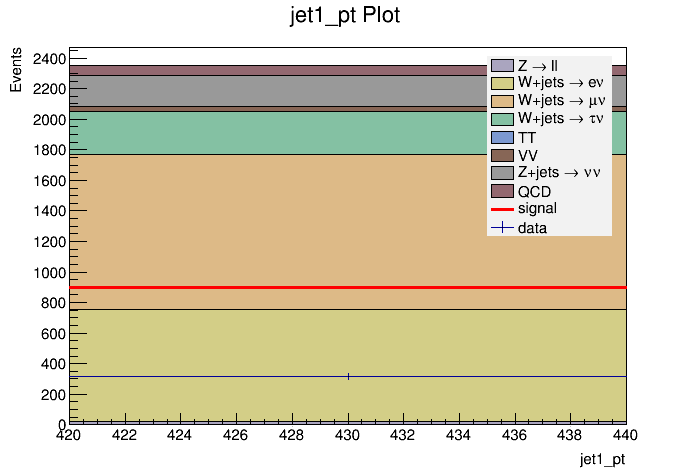
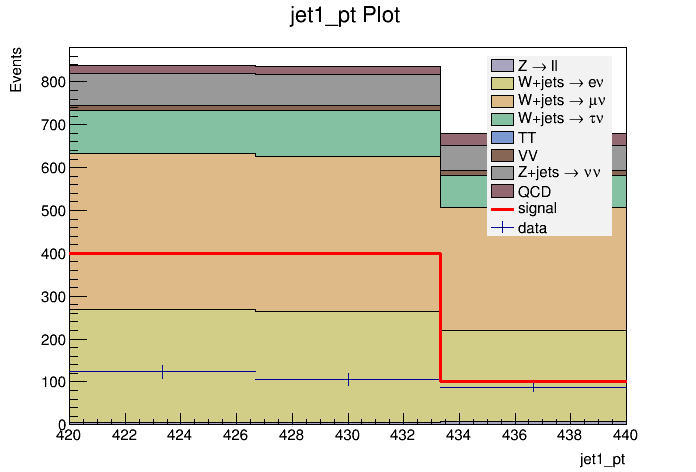
bin adjustment for cuts now works

diff --git a/include/plotting.h b/include/plotting.h
@@ -5,10 +5,11 @@
 #include <THStack.h>
 #include <TLegend.h>
 #include "data_chain.h"
-#include <typeinfo>
+//#include <typeinfo>
 #include <sstream>
 
-const int* scale_bins_for_cut(const int* bins, const char* x_minc_nocut, const char* x_maxc_nocut, const char* x_minc_cut, const char* x_maxc_cut) {
+/*const char* DataChain::scale_bins_for_cut(const char* bins, const char* x_minc_nocut, const char* x_maxc_nocut, const char* x_minc_cut, const char* x_maxc_cut) {
+  std::cout << "raw bins in scale bin funct=" << *bins << "\n";
   double x_min_nocut = atof(x_minc_nocut);
   double x_max_nocut = atof(x_maxc_nocut);
   double x_min_cut = atof(x_minc_cut);
@@ -21,6 +22,7 @@ const int* scale_bins_for_cut(const int* bins, const char* x_minc_nocut, const c
   if (nbins_int==0){
 	nbins_int=1;
   }
+
   //char scaled_bins[10];
   //sprintf(scaled_bins, "%d", nbins_int);
 std::string scaled_bins_str;
@@ -29,17 +31,25 @@ convert << nbins_int;
 scaled_bins_str = convert.str();
 const char* scaled_bins = scaled_bins_str.c_str();
 //std::cout << "*scaled_bins=" << *scaled_bins << "\n";
-std::cout << "scaled bins=" << nbins_int << "\n";
-int* bin_ptr = &nbins_int;
-return bin_ptr;//scaled_bins;
-}
 
-void draw_stacked_histoplots(std::vector<DataChain*> bg_chains, DataChain* signal_chain, DataChain* data, const char* variable_name, const char* selection, const char* signal_multiplier, const int* bins, const char* x_min, const char* x_max, const char* leg_pos, bool is_cut) {
+std::string sbs;
+std::ostringstream oss;
+oss << nbins_int;
+sbs =oss.str();
+//sbs.append(",");
+const char* scbin_ptr = sbs.c_str();
+std::cout << "scaled bins=" << sbs << "\n";
+int* bin_ptr = &nbins_int;
+return scbin_ptr;//scaled_bins;
+}*/
+
+void draw_stacked_histoplots(std::vector<DataChain*> bg_chains, DataChain* signal_chain, DataChain* data, const char* variable_name, const char* selection, const char* signal_multiplier, const char* bins, const char* x_min, const char* x_max, const char* leg_pos, bool is_cut, const char* x_minc_nocut, const char* x_maxc_nocut) {
   //const char* plot_title = build_string({variable_name, " Plot"});
   std::string title_parts(variable_name);
   title_parts.append(" Plot");
   const char* plot_title = title_parts.c_str();
-
+  //const char *scaled_bins= scale_bins_for_cut(bins, x_minc_nocut, x_maxc_nocut, x_min, x_max);
+  //std::cout << "scaled bins in draw_stacked histoplots = " << *scaled_bins<<"+"<<scaled_bins <<"+"<<&scaled_bins<<"\n";
   TCanvas* c1 = new TCanvas("c1", plot_title);
 
   TLegend* legend_bg;
@@ -59,26 +69,26 @@ void draw_stacked_histoplots(std::vector<DataChain*> bg_chains, DataChain* signa
 
   //std::cout << "setup canvas, legend and plot" << std::endl;
   for(int i = 0; i < bg_chains.size(); i++) {
-  	TH1F* single_bg_histo = bg_chains[i]->histo_for_stack(false, variable_name, selection, bins, x_min, x_max, colours[i], is_cut);
+  	TH1F* single_bg_histo = bg_chains[i]->histo_for_stack(false, variable_name, selection, bins, x_min, x_max, colours[i],is_cut, x_minc_nocut, x_maxc_nocut);
   	hs.Add(single_bg_histo);
   	legend_bg->AddEntry(single_bg_histo, bg_chains[i]->legend, "f");
-  	//std::cout << "histograms added to stack fine" << std::endl;
+  	//std::cout << "histograms number:"<<i<< " added to stack fine" << std::endl;
  	}
 
   std::string signal_sel(selection);
   signal_sel += "*";
   signal_sel.append(signal_multiplier);
 
-  TH1F* signal_histo = signal_chain->histo_for_stack(true, variable_name, signal_sel.c_str(), bins, x_min, x_max, 0, is_cut);
+  TH1F* signal_histo = signal_chain->histo_for_stack(true, variable_name, signal_sel.c_str(), bins, x_min, x_max, 0, is_cut, x_minc_nocut, x_maxc_nocut);
   legend_bg->AddEntry(signal_histo, signal_chain->legend, "l");
 
-  TH1F* data_histo = data->draw_data(variable_name, selection, bins, x_min, x_max);
+  TH1F* data_histo = data->draw_data(variable_name, selection, bins, x_min, x_max, x_minc_nocut, x_maxc_nocut);
   legend_bg->AddEntry(data_histo, data->legend, "lep");
-    
+  
   std::string file_parts("graph_bin_cut_adjust/");
   file_parts.append(variable_name);
   file_parts.append("_");
-  //std::string str = bins;
+  //std::string str = scaled_bins;
   //file_parts.append(str);
   file_parts.append(".png");
   const char* file_name = file_parts.c_str();

diff --git a/src/data_chain.cpp b/src/data_chain.cpp
@@ -25,32 +25,30 @@ void DataChain::get_data() {
   }
 }
 
-TH1F* DataChain::histo_for_stack(bool is_signal, const char* variable_name, const char* selection, const int* bins, const char* x_min, const char* x_max, int fill_colour, bool is_cut) {
+TH1F* DataChain::histo_for_stack(bool is_signal, const char* variable_name, const char* selection, const char* bins, const char* x_min, const char* x_max, int fill_colour, bool is_cut,const char* x_minc_nocut, const char* x_maxc_nocut) {
+const char *scaled_bins= scale_bins_for_cut(bins, x_minc_nocut, x_maxc_nocut, x_min, x_max);
+char buffer;//= (char*) malloc(128*sizeof(char));
+buffer= *scaled_bins;
 
   std::string draw_histo(variable_name);
   draw_histo.append(">>");
   draw_histo.append(label);
   draw_histo.append("(");
-
-	std::string scaled_bins_str;
-	std::ostringstream convert;
-	int bin_int = *bins;
-        convert << bin_int;
-	scaled_bins_str = convert.str();
-
-  draw_histo.append(scaled_bins_str);
+  draw_histo+=buffer;
+  std::cout << "buffer =  " << buffer << "\n";
   draw_histo.append(",");
   draw_histo.append(x_min);
   draw_histo.append(",");
   draw_histo.append(x_max);
   draw_histo.append(")");
   const char* histo_id = draw_histo.c_str();
+ std::cout << "histo_id "<< histo_id <<"+"<< *histo_id<<"\n";
 
   set_histo_style(is_signal, fill_colour);
 
 
-  double x_minn = atof(x_min);
-  double x_maxx = atof(x_max);
+  //double x_minn = atof(x_min);
+  //double x_maxx = atof(x_max);
 
   chain->Draw(histo_id, selection, "goff"); 
   TH1F* histo = (TH1F*)gDirectory->Get(label); // get histo from current directory
@@ -65,20 +63,15 @@ TH1F* DataChain::histo_for_stack(bool is_signal, const char* variable_name, cons
   return histo;
 }
 
-TH1F* DataChain::draw_data(const char* variable_name, const char* selection, const int* bins, const char* x_min, const char* x_max) {
-  
+TH1F* DataChain::draw_data(const char* variable_name, const char* selection, const char* bins, const char* x_min, const char* x_max, const char* x_minc_nocut, const char* x_maxc_nocut) {
+  const char* scaled_bins= scale_bins_for_cut(bins, x_minc_nocut, x_maxc_nocut, x_min, x_max);
+
   std::string draw_histo(variable_name);
   draw_histo.append(">>");
   draw_histo.append(label);
   draw_histo.append("(");
-
-	std::string scaled_bins_str;
-	std::ostringstream convert;
-	int bin_int = *bins;
-        convert << bin_int;
-	scaled_bins_str = convert.str();
-
-  draw_histo.append(scaled_bins_str);
+  std::string bins_str = std::string(scaled_bins);
+  draw_histo.append(bins_str);
   draw_histo.append(",");
   draw_histo.append(x_min);
   draw_histo.append(",");
@@ -118,21 +111,33 @@ void DataChain::set_histo_style(bool is_signal, int fill_colour) {
 
 }
 
-/*char* DataChain::scale_bins_for_cut(const char* binsc, const char* x_minc_nocut, const char* x_maxc_nocut, const char* x_minc_cut, const char* x_maxc_cut) {
+const char* DataChain::scale_bins_for_cut(const char* bins, const char* x_minc_nocut, const char* x_maxc_nocut, const char* x_minc_cut, const char* x_maxc_cut) {
+  //std::cout << "raw bins in scale bin funct=" << bins << "\n";
   double x_min_nocut = atof(x_minc_nocut);
   double x_max_nocut = atof(x_maxc_nocut);
   double x_min_cut = atof(x_minc_cut);
   double x_max_cut = atof(x_maxc_cut);
   double fraction = (x_max_cut - x_min_cut)/(x_max_nocut - x_min_nocut);
-  double bins = atof(binsc);
-  double nbins = bins * fraction;
+  double bins1 = atof(bins);
+  double nbins = (bins1) * fraction;
   nbins = nbins + 0.5;
   int nbins_int = (int) nbins;
+  if (nbins_int==0){
+	nbins_int=1;
+  }
 
-  char scaled_bins[10];
-  sprintf(scaled_bins, "%d", nbins_int);
-  return scaled_bins;
-}*/
+
+std::string sbs;
+std::ostringstream oss;
+oss << nbins_int;
+sbs =oss.str();
+//sbs.append(",");
+const char* scbin_ptr = sbs.c_str();
+//std::cout << "scaled bins=" << scbin_ptr << "\n";
+//int* bin_ptr = &nbins_int;
+return scbin_ptr;//scaled_bins;
+}
+
 
 TH1F* DataChain::set_error_bars(TH1F* hist) {
   int nbins = hist->GetNbinsX();

diff --git a/src/main.cpp b/src/main.cpp
@@ -20,7 +20,7 @@ void produce_graphs() {
   const char* weight = "total_weight_lepveto";
   const char* vars[][7] = { 
                         // {varaible to plot, xmin, xmax, legend position,min_x_cut,max_x_cut,bins}
-			{"jet1_pt", "0.0", "600.0", "right","420.0", "440.0","1000"}
+			{"jet1_pt", "0.0", "600.0", "right","420.0", "440.0","100"}
                       };
  // const char* bin_arr[]= {"10","25","50","75","100"};
 
@@ -49,12 +49,12 @@ void produce_graphs() {
     std::vector<DataChain*> bg (bg_arr, bg_arr+ sizeof(bg_arr)/sizeof(DataChain*));
 
     const char* signal_multiplier = "100";
-    const int bin_int = atoi(vars[i][6]);
-    const int* bins = &bin_int;
-    const int* scaled_bins = scale_bins_for_cut(bins, x_min,x_max, min_x_cut, max_x_cut);
-    std::cout << "bins:" <<*bins<<"+"<< *bins << "\n";
-    std::cout << "scaled bins:" << scaled_bins <<"+"<<*scaled_bins<< "\n";
-   draw_stacked_histoplots(bg, mc_signal, data_chain, vars[i][0], selection, signal_multiplier, scaled_bins, min_x_cut, max_x_cut, vars[i][3], true);
+    //const int bin_int = atoi();
+    const char* bins =vars[i][6];// &bin_int;
+   // const int* scaled_bins = scale_bins_for_cut(bins, x_min,x_max, min_x_cut, max_x_cut);
+    std::cout << "bins:" << *bins <<"+"<<bins<< "\n";
+    //std::cout << "scaled bins out put in  main.cpp:" << scaled_bins << "+" <<  *scaled_bins << "\n";
+   draw_stacked_histoplots(bg, mc_signal, data_chain, vars[i][0], selection, signal_multiplier, bins, min_x_cut, max_x_cut, vars[i][3], true, x_min, x_max);
     
   //scaled_binsbg_zll->scale_bins_for_cut("100", "0", "100", "50", "100");
   //std::cout<< scaled_bins<<"\n";

diff --git a/include/data_chain.h b/include/data_chain.h
@@ -246,12 +246,12 @@ public:
 
   DataChain(std::vector<const char*> file_paths, const char* data_label, const char* data_legend);
   void get_data();
-  TH1F* histo_for_stack(bool is_signal, const char* variable_name, const char* selection, const int* bins, const char* x_min, const char* x_max, int fill_colour, bool is_cut);
+  TH1F* histo_for_stack(bool is_signal, const char* variable_name, const char* selection, const char* bins, const char* x_min, const char* x_max, int fill_colour, bool is_cut,const char* x_minc_nocut, const char* x_maxc_nocut);
   void set_histo_style(bool is_signal, int fill_colour = 0);
-  TH1F* draw_data(const char* variable_name, const char* selection, const int* bins, const char* x_min, const char* x_max);
+  TH1F* draw_data(const char* variable_name, const char* selection, const char* bins, const char* x_min, const char* x_max, const char* x_minc_nocut, const char* x_maxc_nocut);
   double get_data_error(TH1F* hist, int bin);
   TH1F* set_error_bars(TH1F* hist);
-  /*char* scale_bins_for_cut(const char* bins, const char* x_minc_nocut, const char* x_maxc_nocut, const char* x_minc_cut, const char* x_maxc_cut);*/
+  const char* scale_bins_for_cut(const char* bins, const char* x_minc_nocut, const char* x_maxc_nocut, const char* x_minc_cut, const char* x_maxc_cut);
   const char* build_var_string(const char* variable_name, const char* x_min, const char* x_max);
 };
 
